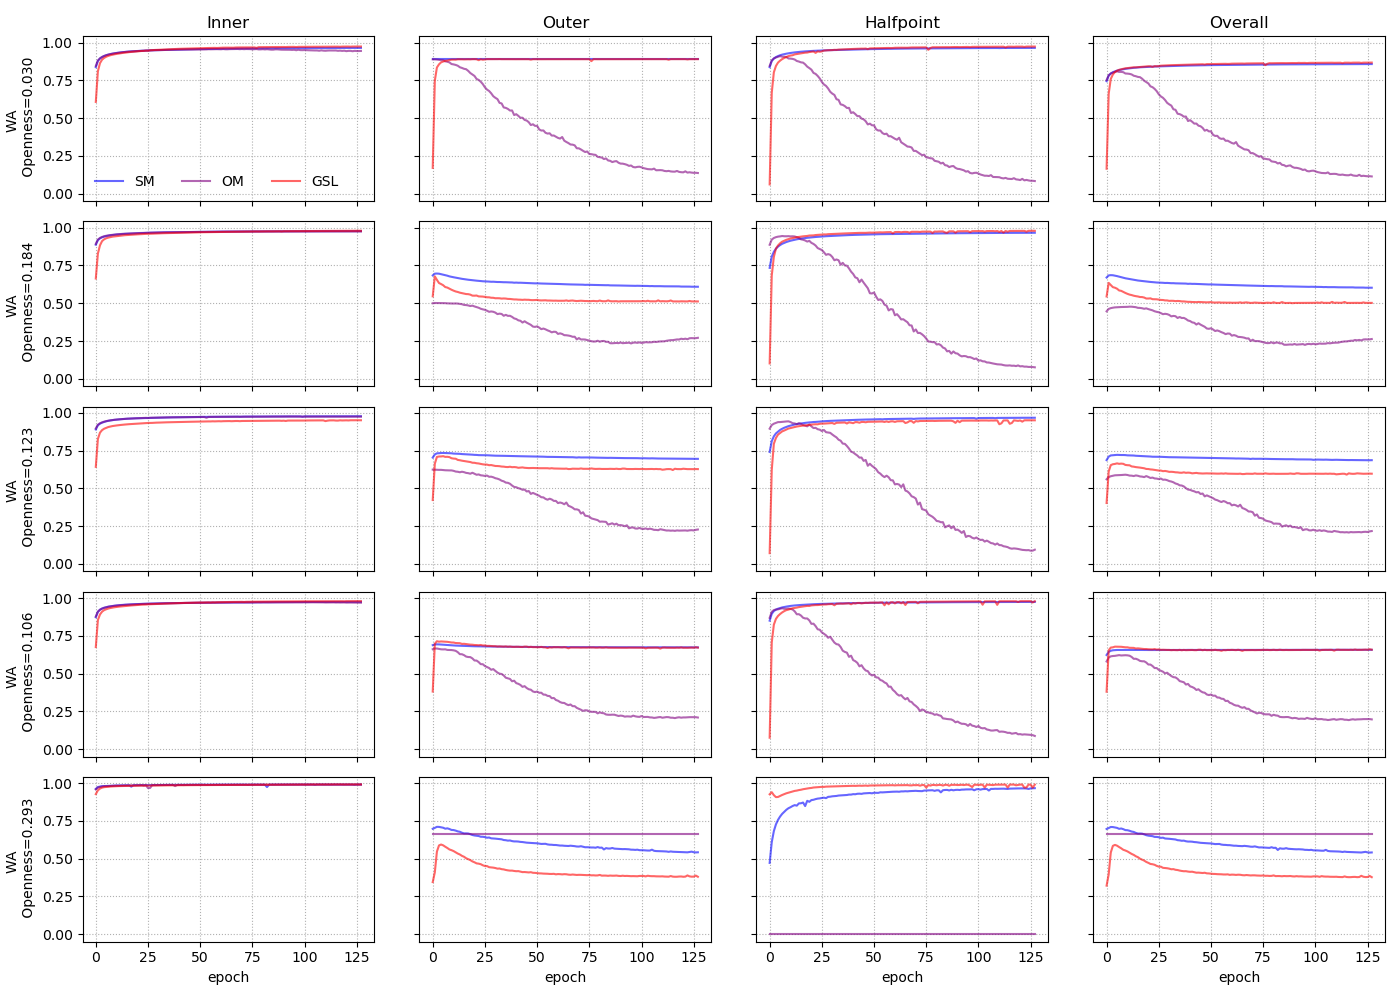
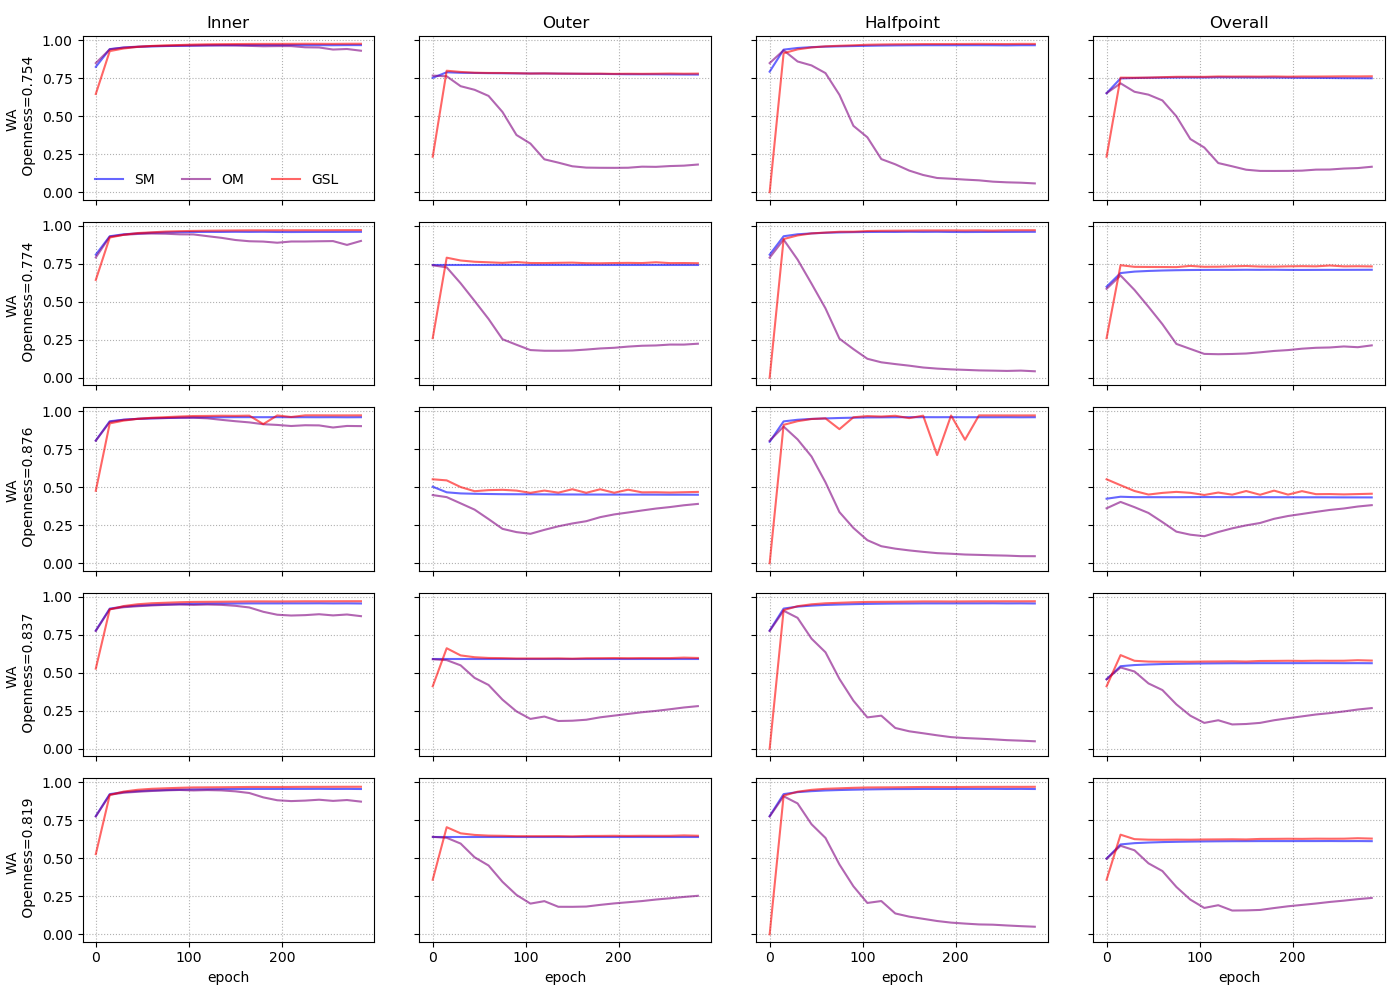
omni

diff --git a/e-compare_omni_fc.py b/e-compare_omni_fc.py
@@ -1,0 +1,100 @@
+from torchosr.data import configure_division_outlier, get_train_test_outlier
+from torch.utils.data import DataLoader
+import torchosr as osr
+import torch
+from tqdm import tqdm
+from torchvision import transforms
+from torchosr.data import MNIST_base, Omniglot_base
+from torchosr.architectures import fc_lower_stack
+from torchosr.utils import get_softmax_epsilon, get_openmax_epsilon
+from models.GSL import GSL
+from torchosr.utils.base import inverse_transform
+
+def getls():
+    return fc_lower_stack(depth=1, img_size_x=28, n_out_channels=64)
+
+# Modelling parameters
+learning_rate = [1e-3, 1e-3, 1e-2]
+batch_size = 64
+epochs = 300
+
+# Evaluation parameters
+repeats = 1         # openness repeats 
+n_splits = 3        # classical validation splits
+n_openness = 5      # openness values
+
+# Load dataset
+root= 'data'
+t_mnist = transforms.Compose([
+        transforms.Resize(28),
+        transforms.ToTensor()])
+t_omni = transforms.Compose([
+            transforms.Resize(28),
+            transforms.ToTensor(),
+            inverse_transform()])
+
+base = MNIST_base(root=root, download=True, transform=t_mnist)
+out = Omniglot_base(root=root, download=True, transform=t_omni)
+
+# Prepare division
+config, openness = configure_division_outlier(base,
+                                            out,
+                                            repeats=repeats, 
+                                            n_openness=n_openness,
+                                            seed=1410)
+
+n_methods = 3
+n_metrics = 4
+
+interval=15
+
+results = torch.full((n_metrics, len(config), n_splits, n_methods, int(epochs/interval)+1), torch.nan)
+
+pbar = tqdm(total=len(config)*n_splits*n_methods*int(epochs/interval))
+
+# Iterating configurations
+for config_idx, (kkc, uuc) in enumerate(config):
+        print('# Configuration %i [openness %.3f]' % (config_idx, openness[config_idx // repeats]), 
+              'known:', kkc.numpy(), 
+              'unknown:', uuc.numpy())
+        # Iterate divisions
+        for fold in range(n_splits):
+            train_data, test_data = get_train_test_outlier(base, 
+                                                   out,
+                                                   kkc, uuc,
+                                                   root='data',
+                                                   tunning=False,
+                                                   fold=fold,
+                                                   seed=1411,
+                                                   n_folds=n_splits)
+            
+            train_data_loader = DataLoader(train_data, batch_size=batch_size, shuffle=True)
+            test_data_loader = DataLoader(test_data, batch_size=batch_size, shuffle=True)
+            
+            methods = [
+            osr.models.TSoftmax(lower_stack=getls(), n_known=len(kkc), epsilon=get_softmax_epsilon(len(kkc))),
+            osr.models.Openmax(lower_stack=getls(), n_known=len(kkc), epsilon=get_openmax_epsilon(len(kkc))),
+            GSL(lower_stack=getls(), n_known=len(kkc), sigma=1.2, n_generated=.5, normal=True),
+            ]
+            
+            for model_id, model in enumerate(methods):                         
+                # Initialize loss function
+                loss_fn = torch.nn.CrossEntropyLoss()
+
+                # Initialize optimizer
+                optimizer = torch.optim.SGD(model.parameters(), lr=learning_rate[model_id])
+
+                for t in range(epochs):
+                    # Train
+                    model.train(train_data_loader, loss_fn, optimizer)
+                    
+                    if t%interval==0:
+                        # Test
+                        scores = model.test(test_data_loader, loss_fn)
+                        results[:, config_idx, fold, model_id, int(t/interval)] = torch.tensor(scores)
+                        
+                        pbar.update(1)
+                        
+                        print(config_idx, fold, model_id, results[:,config_idx, fold, model_id, int(t/interval)])                    
+                torch.save(results, 'results/e-compare_omni_fc.pt')
+pbar.close()

diff --git a/e-time_c10.py b/e-time_c10.py
@@ -1,0 +1,94 @@
+from torchosr.data import configure_division, get_train_test
+from torch.utils.data import DataLoader
+import torchosr as osr
+import torch
+from tqdm import tqdm
+from torchvision import transforms
+from torchosr.data import CIFAR10_base
+from torchosr.architectures import osrci_lower_stack
+from torchosr.utils import get_softmax_epsilon, get_openmax_epsilon
+from models.GSL import GSL
+import time
+
+def getls():
+    return osrci_lower_stack(n_out_channels=64, depth=3, img_size_x=32)
+
+# Modelling parameters
+learning_rate = [1e-3, 1e-3, 1e-2]
+batch_size = 64
+epochs = 128
+
+# Evaluation parameters
+repeats = 1         # openness repeats
+n_splits = 5        # classical validation splits
+n_openness = 5      # openness values
+
+# Load dataset
+root= 'data'
+
+t_cifar = transforms.Compose([
+        transforms.Resize(32),
+        transforms.ToTensor()])
+
+base = CIFAR10_base(root=root, download=True, transform=t_cifar)
+
+# Prepare division
+config, openness = configure_division(base,
+                                    repeats=repeats, 
+                                    n_openness=n_openness,
+                                    seed=1410)
+
+n_methods = 3
+n_metrics = 4
+
+interval=10
+
+results = torch.full((len(config), n_splits, n_methods, 2), torch.nan)
+pbar = tqdm(total=len(config)*n_splits*n_methods)
+
+# Iterating configurations
+for config_idx, (kkc, uuc) in enumerate(config):
+        print('# Configuration %i [openness %.3f]' % (config_idx, openness[config_idx // repeats]), 
+              'known:', kkc.numpy(), 
+              'unknown:', uuc.numpy())
+        # Iterate divisions
+        for fold in range(n_splits):
+            train_data, test_data = get_train_test(base, 
+                                                   kkc, uuc,
+                                                   root='data',
+                                                   tunning=False,
+                                                   fold=fold,
+                                                   seed=1411,
+                                                   n_folds=n_splits)
+            
+            train_data_loader = DataLoader(train_data, batch_size=batch_size, shuffle=True)
+            test_data_loader = DataLoader(test_data, batch_size=batch_size, shuffle=True)
+            
+            methods = [
+            osr.models.TSoftmax(lower_stack=getls(), n_known=len(kkc), epsilon=get_softmax_epsilon(len(kkc))),
+            osr.models.Openmax(lower_stack=getls(), n_known=len(kkc), epsilon=get_openmax_epsilon(len(kkc))),
+            GSL(lower_stack=getls(), n_known=len(kkc), sigma=1.2, n_generated=.5, normal=True),
+            ]
+            
+            for model_id, model in enumerate(methods):                         
+                # Initialize loss function
+                loss_fn = torch.nn.CrossEntropyLoss()
+
+                # Initialize optimizer
+                optimizer = torch.optim.SGD(model.parameters(), lr=learning_rate[model_id])
+
+                s = time.time()
+                model.train(train_data_loader, loss_fn, optimizer)
+                tr_time = time.time()-s
+                results[config_idx, fold, model_id, 0] = tr_time
+                
+                s = time.time()
+                model.test(test_data_loader, loss_fn)
+                te_time = time.time()-s
+                results[config_idx, fold, model_id, 1] = te_time
+                    
+                pbar.update(1)
+                        
+                print(config_idx, fold, model_id, results[config_idx, fold, model_id])                    
+                torch.save(results, 'results/e-time_c10.pt')
+pbar.close()

diff --git a/a-compare_omni_fc.py b/a-compare_omni_fc.py
@@ -1,0 +1,52 @@
+import torch
+import matplotlib.pyplot as plt
+import numpy as np
+from torchosr.data.base_datasets import MNIST_base, Omniglot_base
+from torchosr.data import configure_division_outlier
+
+root= 'data'
+base = MNIST_base(root=root, download=True)
+out = Omniglot_base(root=root, download=True)
+
+# Prepare division
+config, openness = configure_division_outlier(base,
+                                            out,
+                                            repeats=5, 
+                                            n_openness=5,
+                                            seed=1410)
+
+order = np.argsort(openness)
+print(openness)
+print(openness[order])
+
+####
+
+interval=15
+
+res = torch.load('results/e-compare_omni_fc.pt')
+res = res.reshape(4,5,3,3,-1)
+res_m = torch.nanmean(res, 2)
+print(res.shape)
+print(res_m.shape)
+
+cols = ['blue', 'purple', 'red']
+fig, ax = plt.subplots(5, 4, figsize=(14,10), sharex=True, sharey=True)
+
+for i in range(5):
+    for m_id, m in enumerate(['Inner', 'Outer', 'Halfpoint', 'Overall']):
+        
+        if order[i]==0:
+            ax[order[i], m_id].set_title(m)
+            ax[-1, m_id].set_xlabel('epoch')
+        if m_id==0:
+            ax[order[i], m_id].set_ylabel('WA \n Openness=%.3f'% openness[order[i]])
+        
+        for method_id, method in enumerate(['SM', 'OM', 'GSL']):
+            ax[order[i],m_id].plot(np.arange(0,res.shape[-1]*interval,interval), res_m[m_id, order[i], method_id], c=cols[method_id], label=method, alpha=0.6)
+
+        ax[order[i],m_id].grid(ls=':')
+
+ax[0,0].legend(ncols=3, frameon=False)
+
+plt.tight_layout()
+plt.savefig('foo.png')

diff --git a/a-time_c10.py b/a-time_c10.py
@@ -1,0 +1,17 @@
+import torch
+import matplotlib.pyplot as plt
+import numpy as np
+
+results = torch.load('results/e-time_c10.pt') # config x folds x methods x (training, testing)
+print(results.shape)
+results_mean = np.mean(results.detach().numpy(), axis=(0,1))
+print(results_mean)
+
+fig, ax = plt.subplots(1,1,figsize=(7,5))
+
+ax.bar(np.arange(3)-0.2, results_mean[:,0], label='training', width=0.35)
+ax.bar(np.arange(3)+0.2, results_mean[:,1], label='testing', width=0.35)
+ax.set_xticks(np.arange(3), ['SM', 'OM', 'GSL'])
+ax.legend()
+plt.tight_layout()
+plt.savefig('foo.png')
